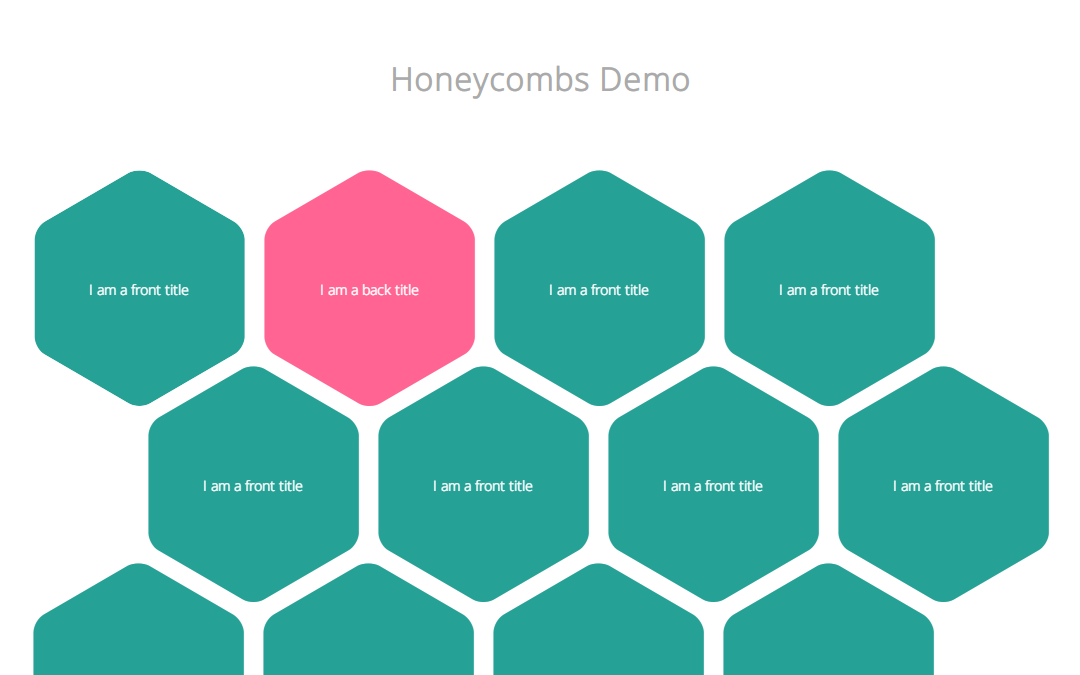
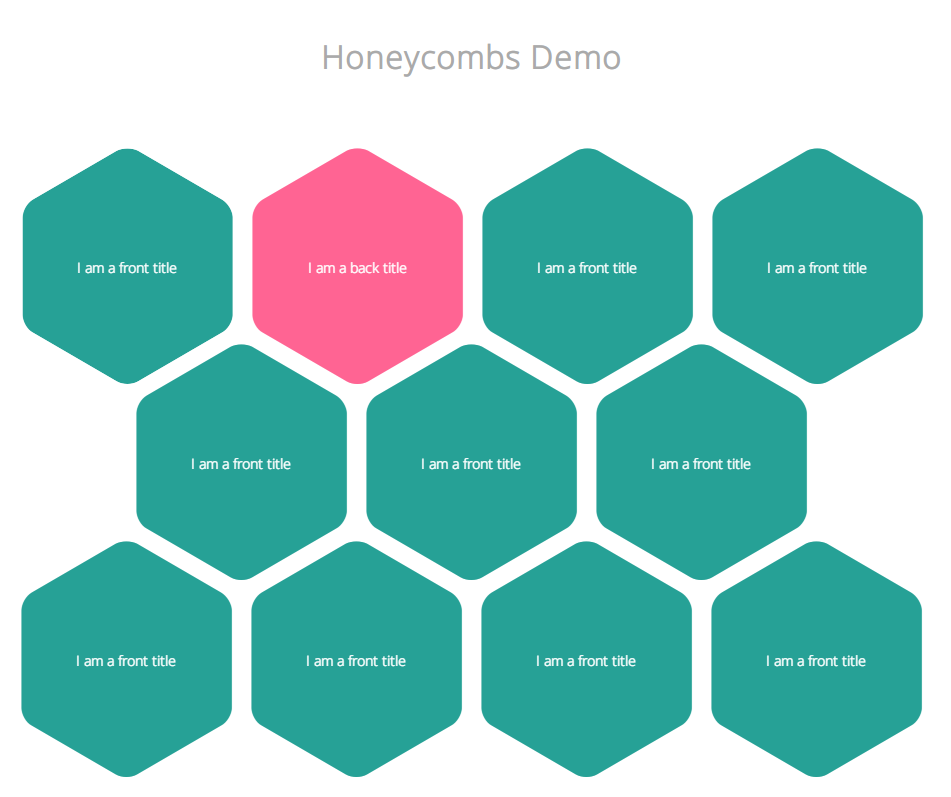
update image

diff --git a/demo.html b/demo.html
@@ -108,86 +108,7 @@
 				<p>I am a back title</p>
 			</div>
 		</div>
-		<div class="comb">
-			<div class="front-content">
-				<p>I am a front title</p>
-			</div>
-			<div class="back-content">
-				<p>I am a back title</p>
-			</div>
-		</div>
-		<div class="comb">
-			<div class="front-content">
-				<p>I am a front title</p>
-			</div>
-			<div class="back-content">
-				<p>I am a back title</p>
-			</div>
-		</div>
-		<div class="comb">
-			<div class="front-content">
-				<p>I am a front title</p>
-			</div>
-			<div class="back-content">
-				<p>I am a back title</p>
-			</div>
-		</div>
-		<div class="comb">
-			<div class="front-content">
-				<p>I am a front title</p>
-			</div>
-			<div class="back-content">
-				<p>I am a back title</p>
-			</div>
-		</div>
-		<div class="comb">
-			<div class="front-content">
-				<p>I am a front title</p>
-			</div>
-			<div class="back-content">
-				<p>I am a back title</p>
-			</div>
-		</div>
-		<div class="comb">
-			<div class="front-content">
-				<p>I am a front title</p>
-			</div>
-			<div class="back-content">
-				<p>I am a back title</p>
-			</div>
-		</div>
-		<div class="comb">
-			<div class="front-content">
-				<p>I am a front title</p>
-			</div>
-			<div class="back-content">
-				<p>I am a back title</p>
-			</div>
-		</div>
-		<div class="comb">
-			<div class="front-content">
-				<p>I am a front title</p>
-			</div>
-			<div class="back-content">
-				<p>I am a back title</p>
-			</div>
-		</div>
-		<div class="comb">
-			<div class="front-content">
-				<p>I am a front title</p>
-			</div>
-			<div class="back-content">
-				<p>I am a back title</p>
-			</div>
-		</div>
-		<div class="comb">
-			<div class="front-content">
-				<p>I am a front title</p>
-			</div>
-			<div class="back-content">
-				<p>I am a back title</p>
-			</div>
-		</div>
+		
 	</div>
 <script>
 	$(document).ready(function() {

diff --git a/README.md b/README.md
@@ -55,6 +55,5 @@ and add the following code at the end of the `<body>` tag
 	});
 });
 </script>
-
 ```
 
